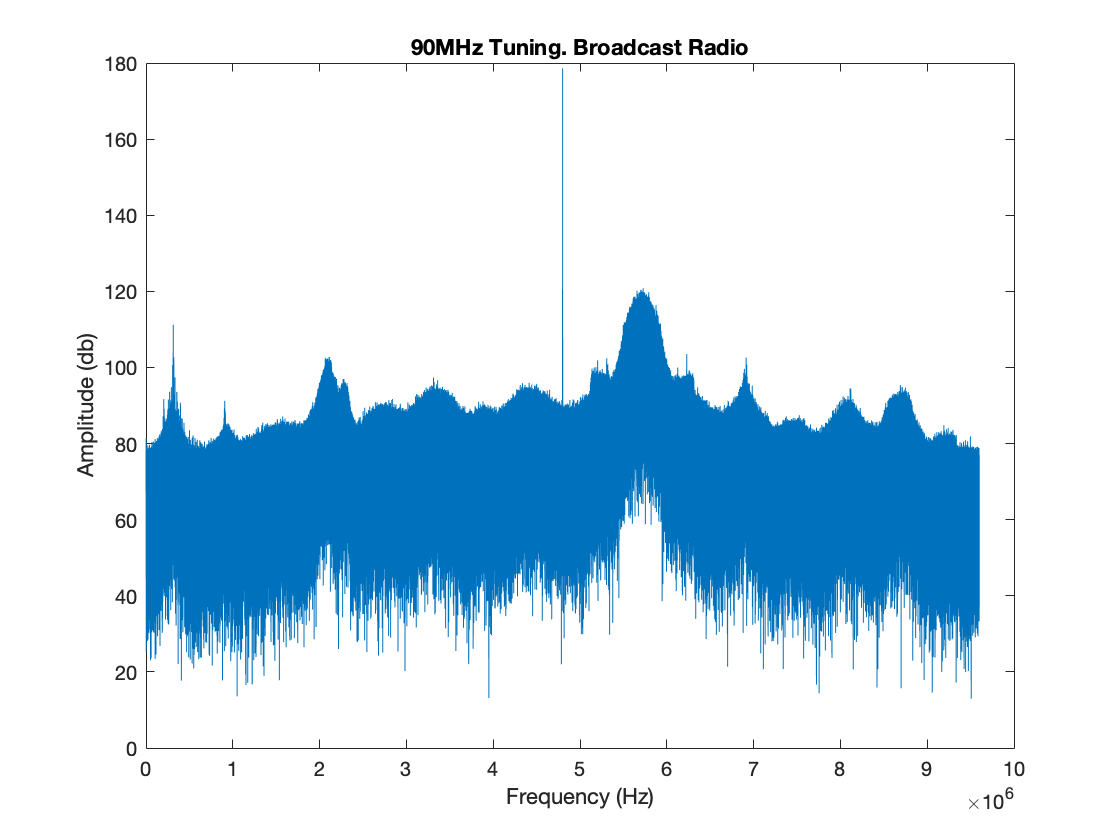
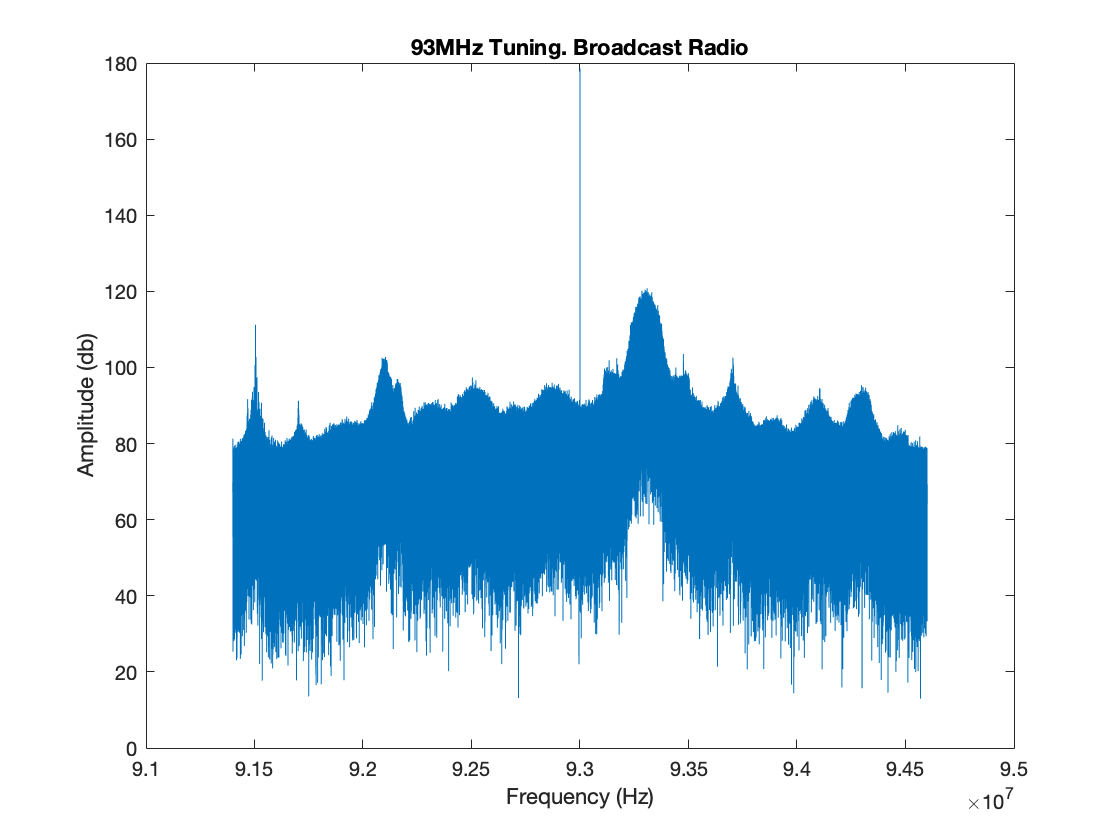
final commit

diff --git a/matlab_sim/main.m b/matlab_sim/main.m
@@ -4,7 +4,7 @@ close all
 
 
 %% User Input
-radio_type = 1; % 0 FM radio, 1 Handheld Radio
+radio_type = 0; % 0 FM radio, 1 Handheld Radio
 
 
 %% Frequency definition
@@ -30,7 +30,7 @@ if radio_type
     
 
 else
-    f_center = 91.3e6; %Hz
+    f_center = 93e6; %Hz
     bw = 3.2e6;
     f_start = f_center - bw/2;
     f_end = f_center + bw/2;

diff --git a/README.md b/README.md
@@ -49,13 +49,45 @@ The below section outlines the results of the project.
 ## Handheld Radio
 The below plot shows the frequency plot of the handheld radio.
 
-![image](https://github.com/Ryankearns9/DigComm_final/blob/main/imgs/RationalResampler.PNG)
+![image](https://github.com/Ryankearns9/DigComm_final/blob/main/imgs/rocky_spectrum.png)
 
 As can be seen here, this spectrum has a significant number of spurs. After inspecting the time domain data, it is clear that saturation occured during measurement. This resulted in spurs occuring all throughout the signal. Future work should include retaking this data from a further distance to avoid saturating the antenna.
 
 Another spur of interest is the DC spur. This is a typical issue with ADCs and can be corrected for by removing the "average" from the data.
 
 ### Waterfall
-The channelized output can be seen below. The spectrum was channelized 
+The channelized output can be seen below. The spectrum was channelized to 25kHz and downsampled to about 30kHz. As can be seen here, the DC tone is present in channel 1 and is the largest signal present. After the DC tone, is the tone in bin 117 with the tone in 39 following. The bin at 117 corresponds to the expected location of our signal while the bin at 39 appears to be spurious. We are confident that both tones are a result of our radio because the start and end time for the radio can be clearly seen at the beginning of the waterfall.
 
-![image](https://github.com/Ryankearns9/DigComm_final/blob/main/imgs/RationalResampler.PNG)
+![image](https://github.com/Ryankearns9/DigComm_final/blob/main/imgs/Waterfall_handheld.png)
+
+### Channelized Spectrum
+The below spectrum shows the channelized spectrum of our handheld radio. As can be seen, siginificant spurs still exist. These spurs have severly degraded our signal and may make it impossible to demodulate. The experiment will need to be redone without this saturation
+
+![image](https://github.com/Ryankearns9/DigComm_final/blob/main/imgs/RockyTalkieOutput.png)
+
+The phase for this signal suggests we have not successfully basebaded the signal of interest. An ideally basebanded signal should experience a constant phase rather than the increasing phase seen here.
+
+![image](https://github.com/Ryankearns9/DigComm_final/blob/main/imgs/RockyTalkiePhase.png)
+
+## Broadcast Radio
+The below plot displays the spectrum when captured at 93 MHz. This spectrum is significantly cleaner than that seen in the previous section. Here we can clearly make out the main bulb of a FM waveform at 93.3MHz. This is clearly an FM waveform and will be targeted for this project.
+
+![image](https://github.com/Ryankearns9/DigComm_final/blob/main/imgs/radio_spectrum.png)
+
+### Waterfall
+The channelized spectrum is shown below. The spectrum was split into 200kHz channels to target the FCC channelization scheme. This higher chanenl size results in a much lower resolution wateterfall curve but the channels can still be clearly identified. Our signal of interest is in channel 3 below:
+
+![image](https://github.com/Ryankearns9/DigComm_final/blob/main/imgs/waterfall_broadcast.png)
+
+### Channelized Spectrum
+By selecting our channel of interest, we see the FM waveform main bulb. This is the characteristic main lobe of an FM waveform and contains the majority of the energy and information. From here, we should be able to demodulate the information without issue of the adjacent channels or noise interfering with the demodulation process 
+
+![image](https://github.com/Ryankearns9/DigComm_final/blob/main/imgs/Broadcast_Channel.png)
+
+# Future Work
+
+## Demodulation
+This project has yet to successfully demodulate the waveform. All attempts have so far been unsuccessful. Retaking the data without saturating the ADC is likely to yeild much more successful results.
+
+## Real Time Analysis
+All code was built intending for real time analysis. C code was begin to this end. Unforunately, without the ability to demodulate, these efforts were paused until demodulation could be proven. Once successfully demodulating the waveform, this code will be updated to run in real time.
